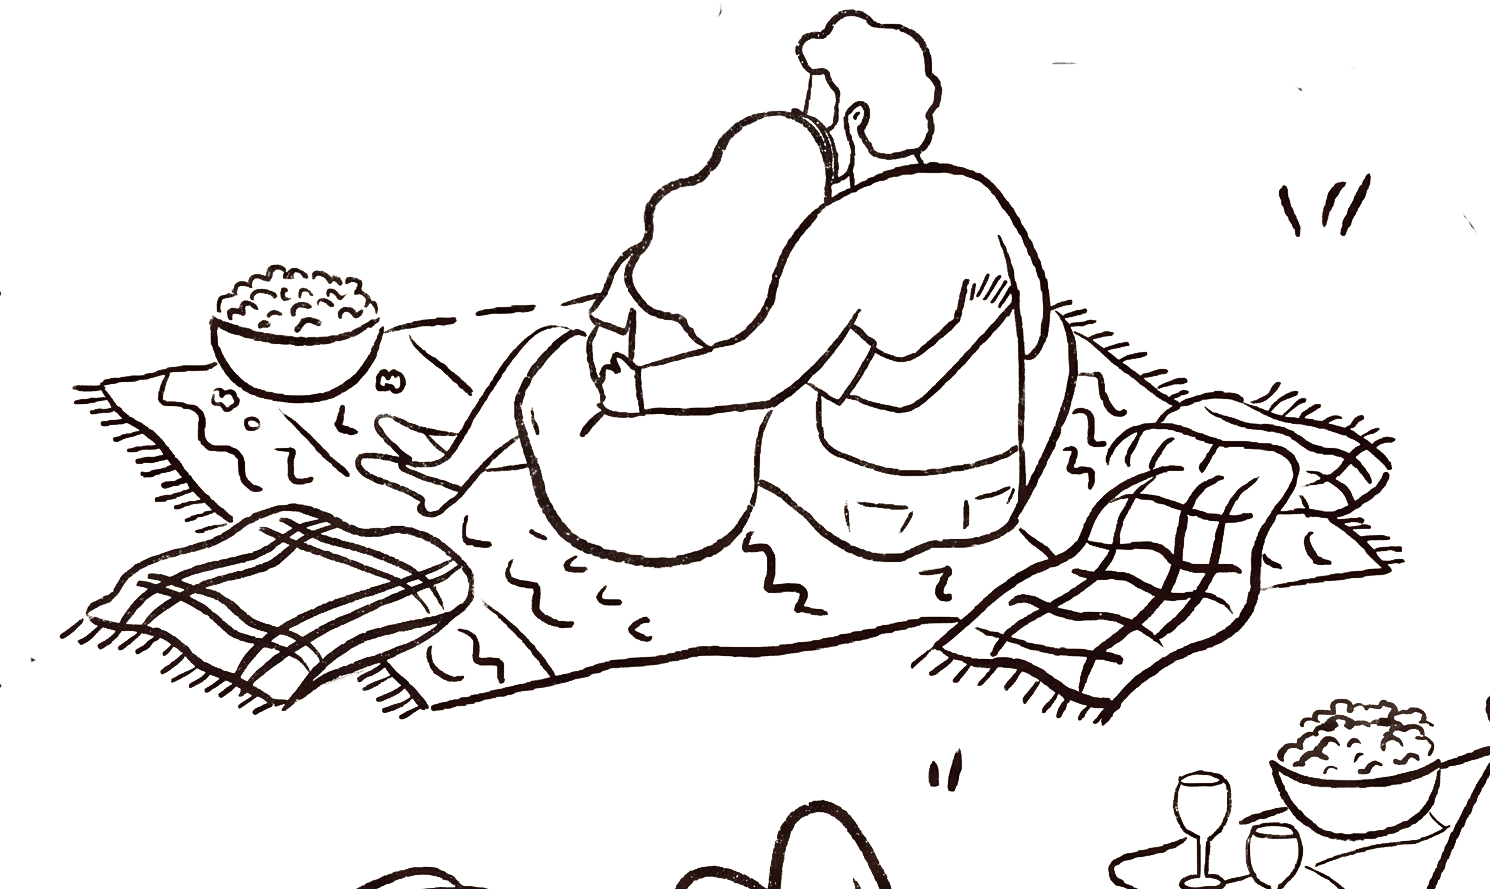
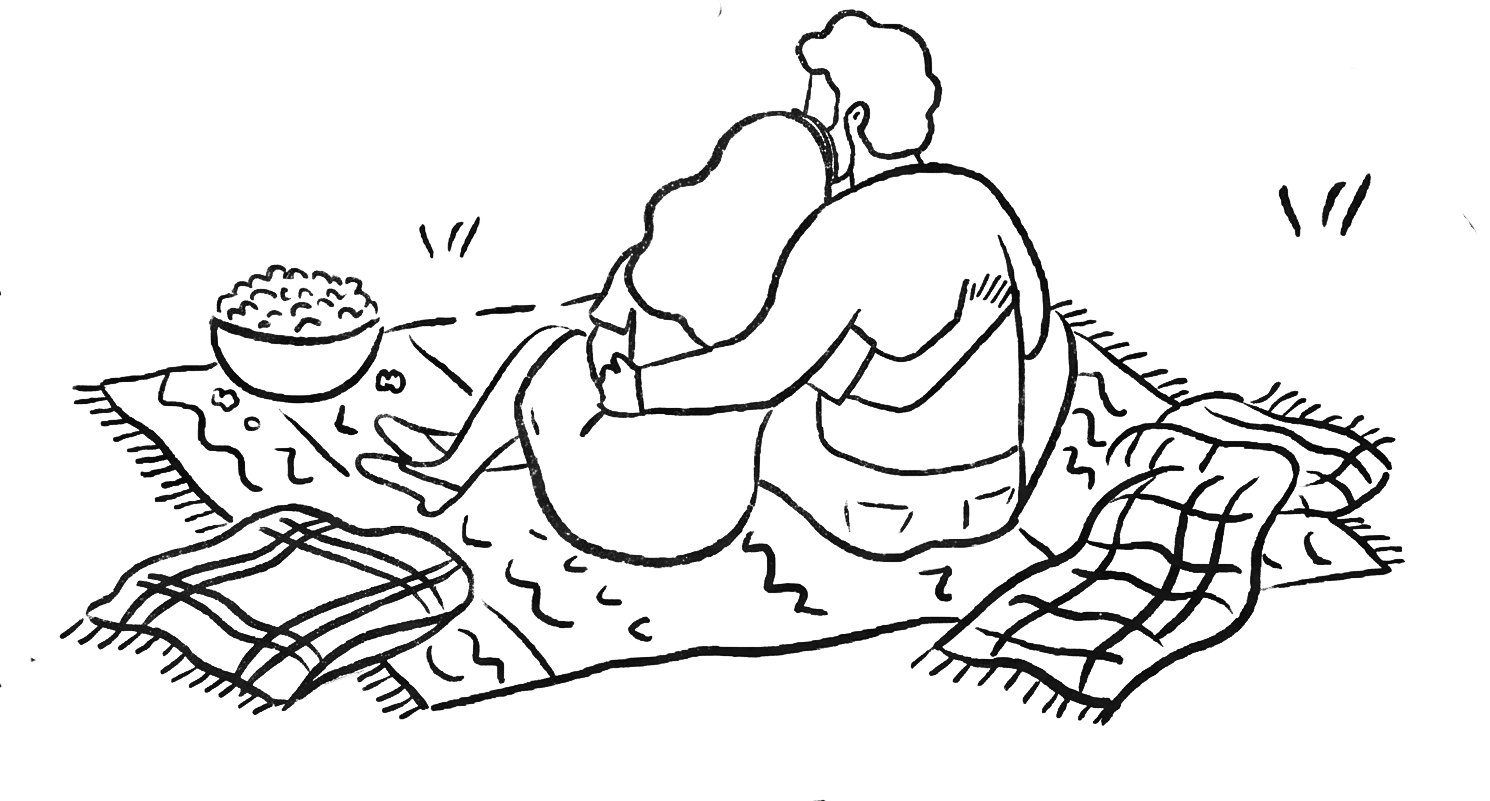
Add files via upload

diff --git a/index.html b/index.html
@@ -113,7 +113,7 @@
   .hero-icons a:hover{opacity:1}
   .hero-icons svg{width:20px;height:20px;display:block}
   .hero-bottom{position:relative;display:flex;align-items:flex-end;justify-content:flex-end;gap:0;margin-top:8rem;width:100%}
-  .hero-portrait{width:min(460px,46vw);aspect-ratio:1.676;height:auto;object-fit:contain;object-position:bottom right;
+  .hero-portrait{width:min(540px,52vw);aspect-ratio:1.86;height:auto;object-fit:contain;object-position:bottom right;
     flex:none;margin-bottom:2.2rem;position:relative;z-index:1}
   .hero-tagline{margin-left:-1.5rem;padding-bottom:2.4rem;position:relative;z-index:2}
   .tagline-script{display:block;font-family:var(--serif);font-style:italic;font-weight:500;
@@ -275,6 +275,7 @@
           </div>
         </div>
         <div class="hero-bottom">
+          <img class="hero-portrait" id="heroPortrait" src="hero-portrait-light.png" data-light="hero-portrait-light.png" data-dark="hero-portrait-dark.png" alt="Aviv Cohen">
           <div class="hero-tagline">
             <span class="tagline-script" id="taglineLoop">Graphic</span>
             <span class="tagline-serif">designer</span>
@@ -527,7 +528,7 @@ const ALLWORKS = [
    body:['A bold, cropped wordmark letter anchors each issue, printed on a rotating set of loud fluorescent covers.','The stripped-down, photocopy-zine energy carries through typography, layout and the choice of paper stock.']},
 ];
 
-const taglineWords = ['Graphic','UI/UX','Branding','Illustrator'];
+const taglineWords = ['Graphic','UI/UX','Branding','Illustration'];
 const taglineEl = document.getElementById('taglineLoop');
 if(taglineEl){
   let taglineIndex = 0;
